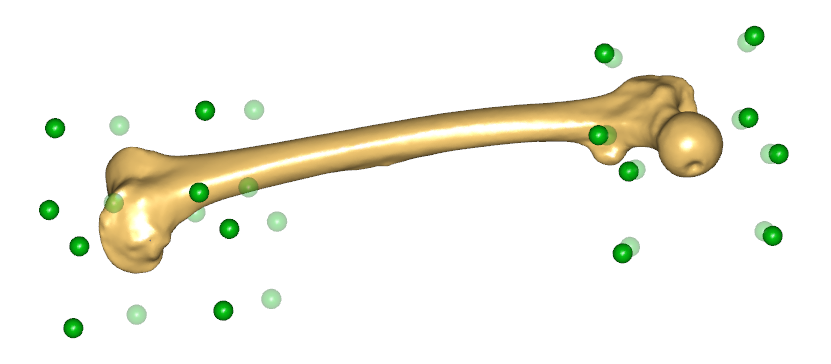
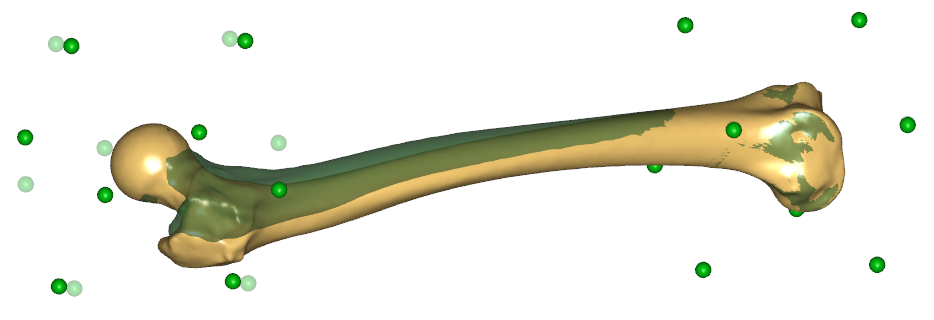
Update with review changes from Enrico

diff --git a/Docs/Applications/Orthopedics_and_rehab/plot_FemoralTorsionTool.py b/Docs/Applications/Orthopedics_and_rehab/plot_FemoralTorsionTool.py
@@ -3,37 +3,42 @@ r"""
 Femoral Torsion tool
 =======================================
 
-This is an example of modifying the femoral torsion of the generic TLEM geometry 
-by using a model utility tool included within the model repository. 
-The  model is the simple standing model where the femoral torsion has been altered to 25 degrees. 
-The model is also a good example on how a similar morphing approach can be used to personalize different body segments. 
-
+This is an example of modifying the femoral torsion of the generic TLEM geometry
+by using a model utility tool included within the model repository. The  model
+is the simple standing model where the femoral torsion has been altered to 20
+degrees. The model is also a good example on how a similar morphing approach can
+be used to personalize different body segments.
 
 .. rst-class:: without-title 
 
 .. seealso:: **Model location in AMMR:** 
 
-  :menuselection:`Application --> Examples --> FemoralTorsion --> StandingModel.Main.any` 
+  :menuselection:`Application --> Examples --> FemoralTorsion -->
+  StandingModel.Main.any` 
 
 
-The tool was developed by Enrico De Pieri, from the University of Basel Children’s Hospital (UKBB),
-and Morten E. Lund, from AnyBody Technology A/S.
-This tool was developed in order to generate personalized models that account for subject-specific values of femoral torsion,
-and investigate the effect of torsional alignment on hip loading. 
-This work is published in 'Frontiers in Bioengineering and Biotechnology' [DFLM21]_. 
-Please cite this article when using this tool. 
+The tool was developed by Enrico De Pieri, from the University of Basel
+Children’s Hospital (UKBB), and Morten E. Lund, from AnyBody Technology A/S.
+
+This tool was made to generate personalized models that account for
+subject-specific values of femoral torsion, and investigate the effect of
+torsional alignment on hip loading. This work is published in 'Frontiers in
+Bioengineering and Biotechnology' [DFLM21]_. Please cite this article when using
+this tool. 
 
 
 .. figure:: /Applications/Orthopedics_and_rehab/femoral-torsion.png
    :align: center
 
-   The tools works by adding a 8 control points around the hip center and knee center, which control a RBF scale function.
-   The control points are scaled with the default model scaling, while the femoral torsion is added on top.
+   The tool works by adding a 8 control points around the hip center and knee
+   center, which control a RBF scale function. The control points are scaled
+   with the default model scaling, while the femoral torsion is added on top.
 
-.. figure:: /Applications/Orthopedics_and_rehab/femoral-torsion_muscles.tiff
+.. figure:: /Applications/Orthopedics_and_rehab/femoral-torsion_2.png
    :align: center
 
-   The origin and insertion points of the muscles follow the morphed femoral geometry.
+   The origin and insertion points of the muscles follow the morphed femoral
+   geometry.
 
 
 The model tool is a simple include file located in the model repository. It can
@@ -41,28 +46,36 @@ be included in any model using the following code:
 
 .. code-block:: AnyScriptDoc
 
-  // The femoral torsion tool expects the following variables to be defined 
+  // The femoral torsion tool expects the following variables to be defined
   Main.HumanModel.Anthropometrics = {
      AnyVar FemoralTorsionRight = 20;
      AnyVar FemoralTorsionLeft = 20;
   };
-  
-  // This line must be included before the "HumanModel".
+
+  // This line must be included before the "HumanModel". 
   #include "<ANYBODY_PATH_MODELUTILS>/FemoralTorsion/FemoralTorsionInclude.any"
 
 
-.. note:: The current femoral torsion in the unscaled (TLEM 2.0 cadaver) model geometry is
-        approx. 5.5 degrees. So setting the femoral torsion to 5.5 degrees will not
-        modify the model.
+.. note:: This tool takes as input the nominal value of femoral torsion that is
+   to be expected in the final morphed model. It automatically subtracts the
+   torsional value of the original model’s femoral geometry and introduces a twist
+   in the transversal plane according to the difference between the two values. The
+   femoral torsion in the geometry of the unscaled (TLEM 2.0 cadaver) model is
+   approximately 3.5 degrees, so setting the femoral torsion to 3.5 degrees will
+   not modify the model. In the original publication, a slightly different
+   definition of joint axes for the calculation of torsion in the unscaled model
+   was used, leading to a value of 5.5 degrees. The adjusted value does not alter
+   the functionality of this tool nor the conclusions of the afore-mentioned
+   publication.
 
-The tool uses a functionality override scaling for thigh segments. In this case
+The Femoral torsion tool uses a functionality override scaling for thigh segments. In this case
 the include file sets ``#define CUSTOM_SCALING_Right_Thigh`` and ``#define
 CUSTOM_SCALING_Left_Thigh`` to override the default scaling for the right/left
 thigh. 
 
-.. seealso:: See the :doc:`scaling tutorial <tutorials:Scaling/lesson4>` for more
-   information on how to use the custom scaling functionality in the general
-   case. 
+.. seealso:: See the :doc:`scaling tutorial <tutorials:Scaling/lesson4>` for
+   more information on how to use the custom scaling functionality in the
+   general case. 
 
 
 References
